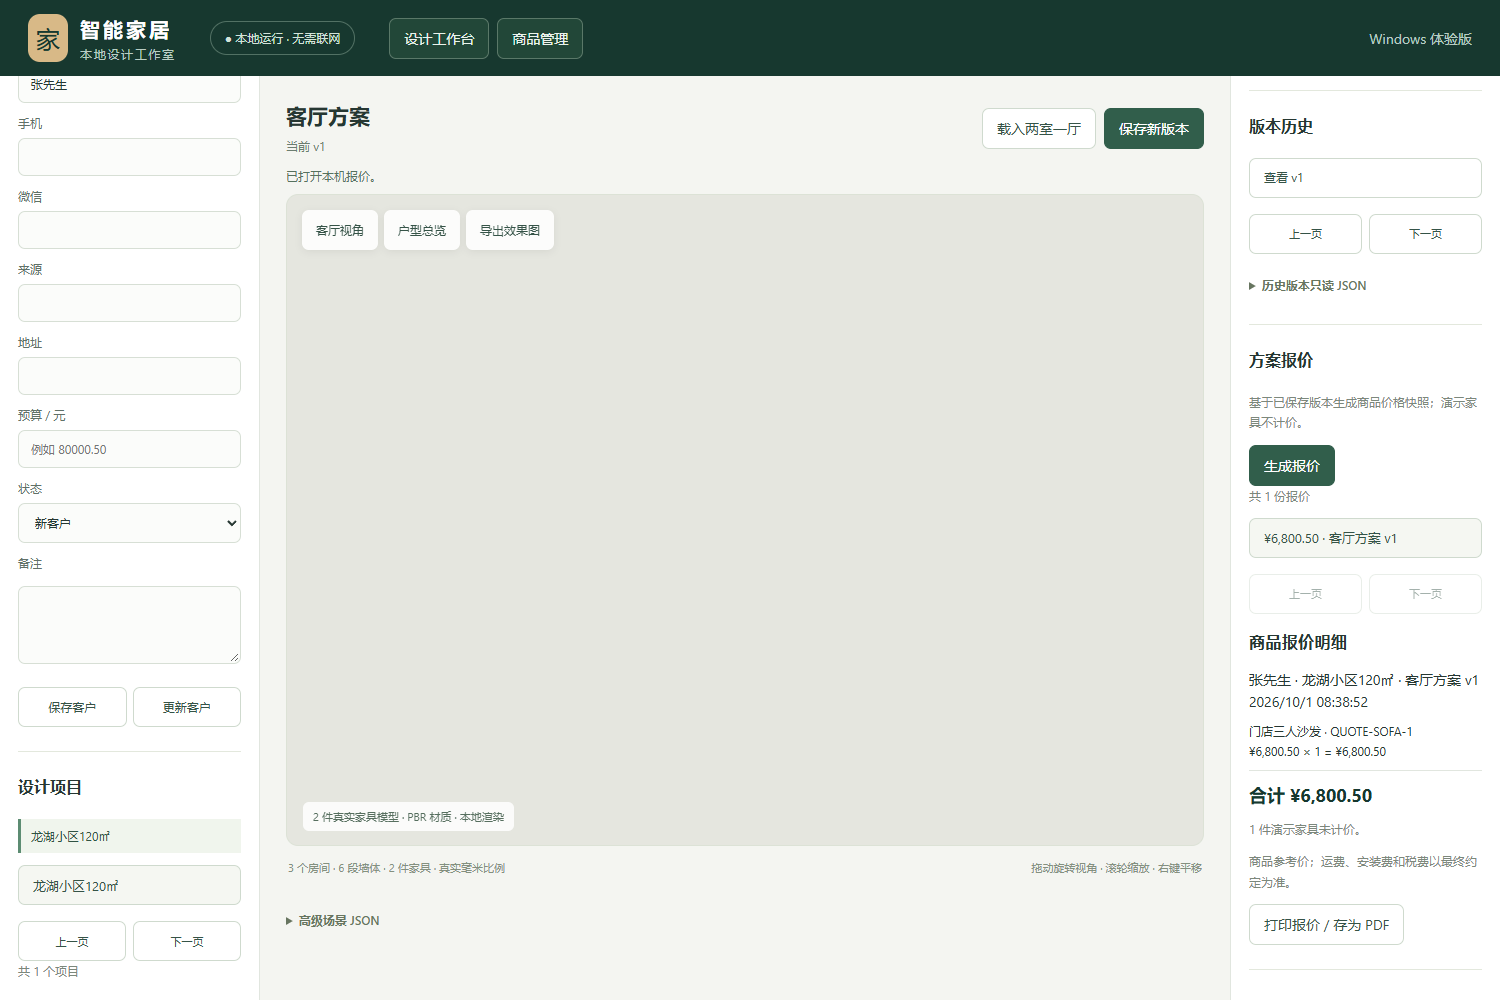
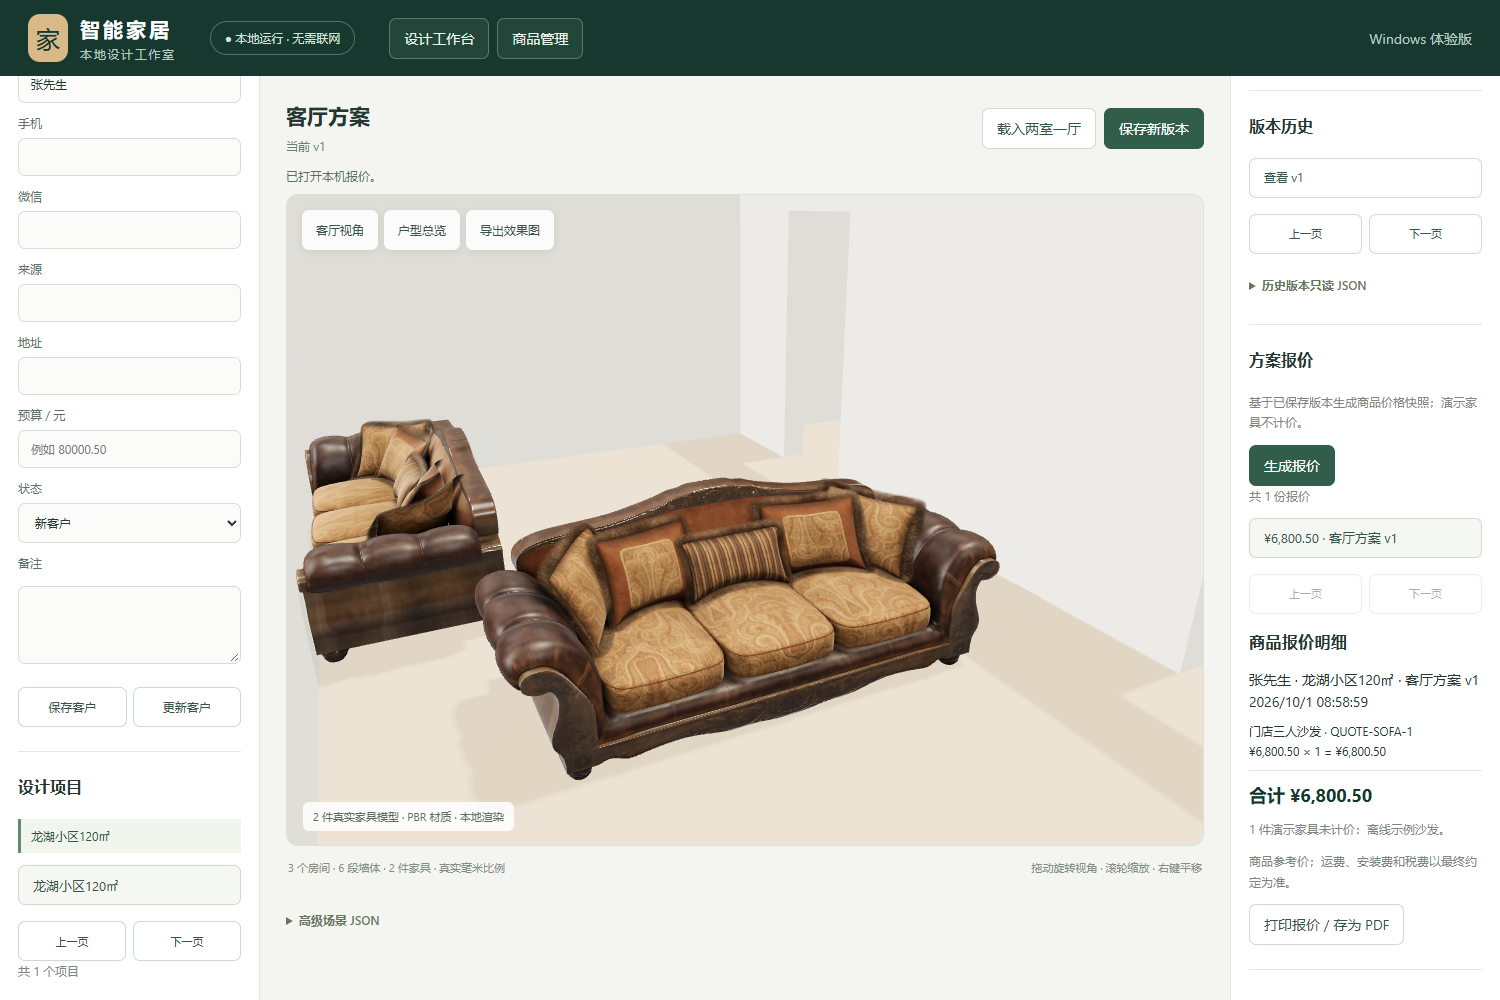
docs: record reviewed quotation evidence

Changed region(s): [[0.184, 0.403, 0.828, 0.806], [0.92, 0.806, 0.9507, 0.837]]

diff --git a/docs/windows-local-verification.md b/docs/windows-local-verification.md
@@ -6,7 +6,7 @@
 
 - 本地真实 SQLite 测试已覆盖金额精度、演示家具排除、客户/项目/场景隔离、不可变性、旧库迁移、事务失败回滚与独立连接并发创建；完整核心套件含 256 个协议权威案例。
 - 本地真实 Edge 测试已覆盖创建张先生和项目、导入 SKU 模型、保存场景 v1、生成 ¥6,800.50 报价、打印 A4 PDF、网络失败提示及重试、修改商品价格后旧报价不变、服务重启后再次读取，以及未保存客户或场景资料时阻止生成。实际[运行截图](images/windows-offline-quotation.png)来自 Edge 和本机 SQLite，不是概念图。
-- 最终便携包的源 SHA、完整测试数量、打包哈希和对应 GitHub Actions 结果将在最终提交后核实并补录。本地测试不等同于远端 CI。订单和更丰富的室内材质仍未实现；逼真度取决于门店提供的合法高质量 GLB。
+- 从提交 315e760 构建的便携候选包在本机完整 Windows 客户端测试 **59 passed、0 failed**；本机 SQLite 核心全部通过（含 256 个协议权威案例），语法与格式检查通过，原生启动器 smoke test 通过。独立审查发现 2 个 Important 问题：演示家具缺少具名快照，以及失败后旧报价仍可打印；两项均修复并由 reviewer 复核。最终分发包的源 SHA、哈希和对应 GitHub Actions 结果以发布时核实为准。本地测试不等同于远端 CI。订单和更丰富的室内材质仍未实现；逼真度取决于门店提供的合法高质量 GLB。
 
 ## 在售商品 GLB 模型（2026-09-29）
 
